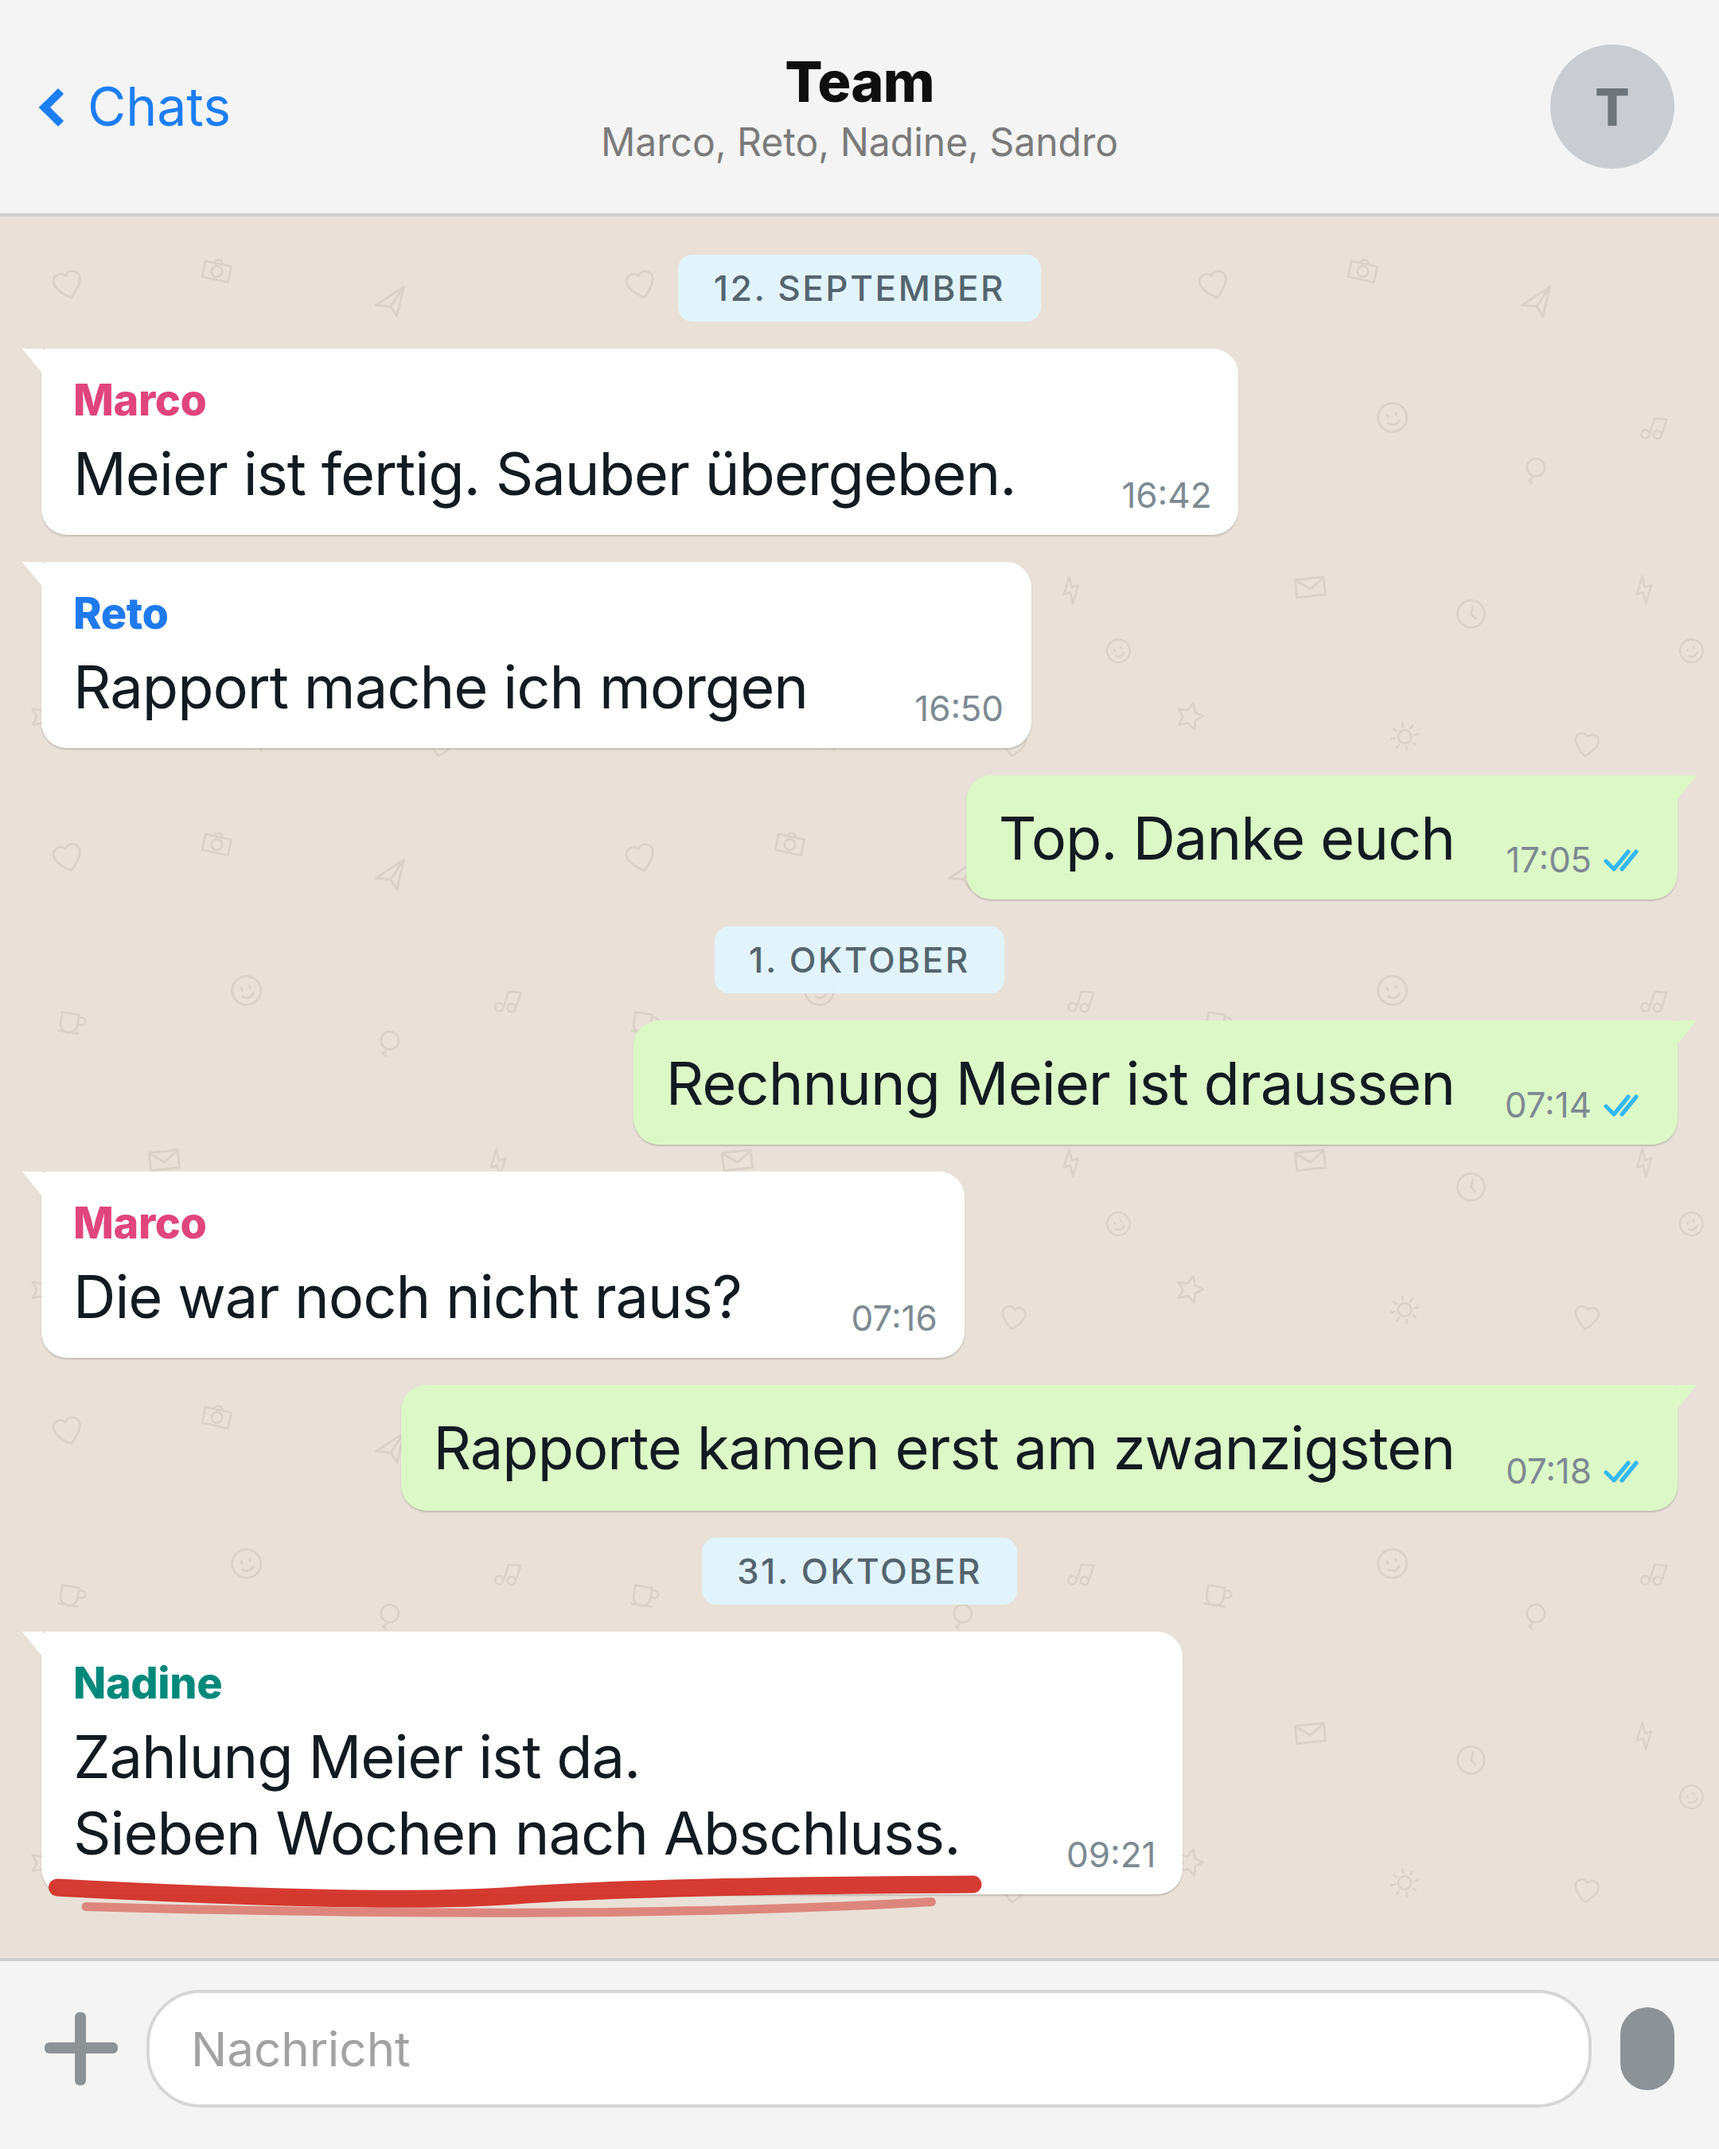
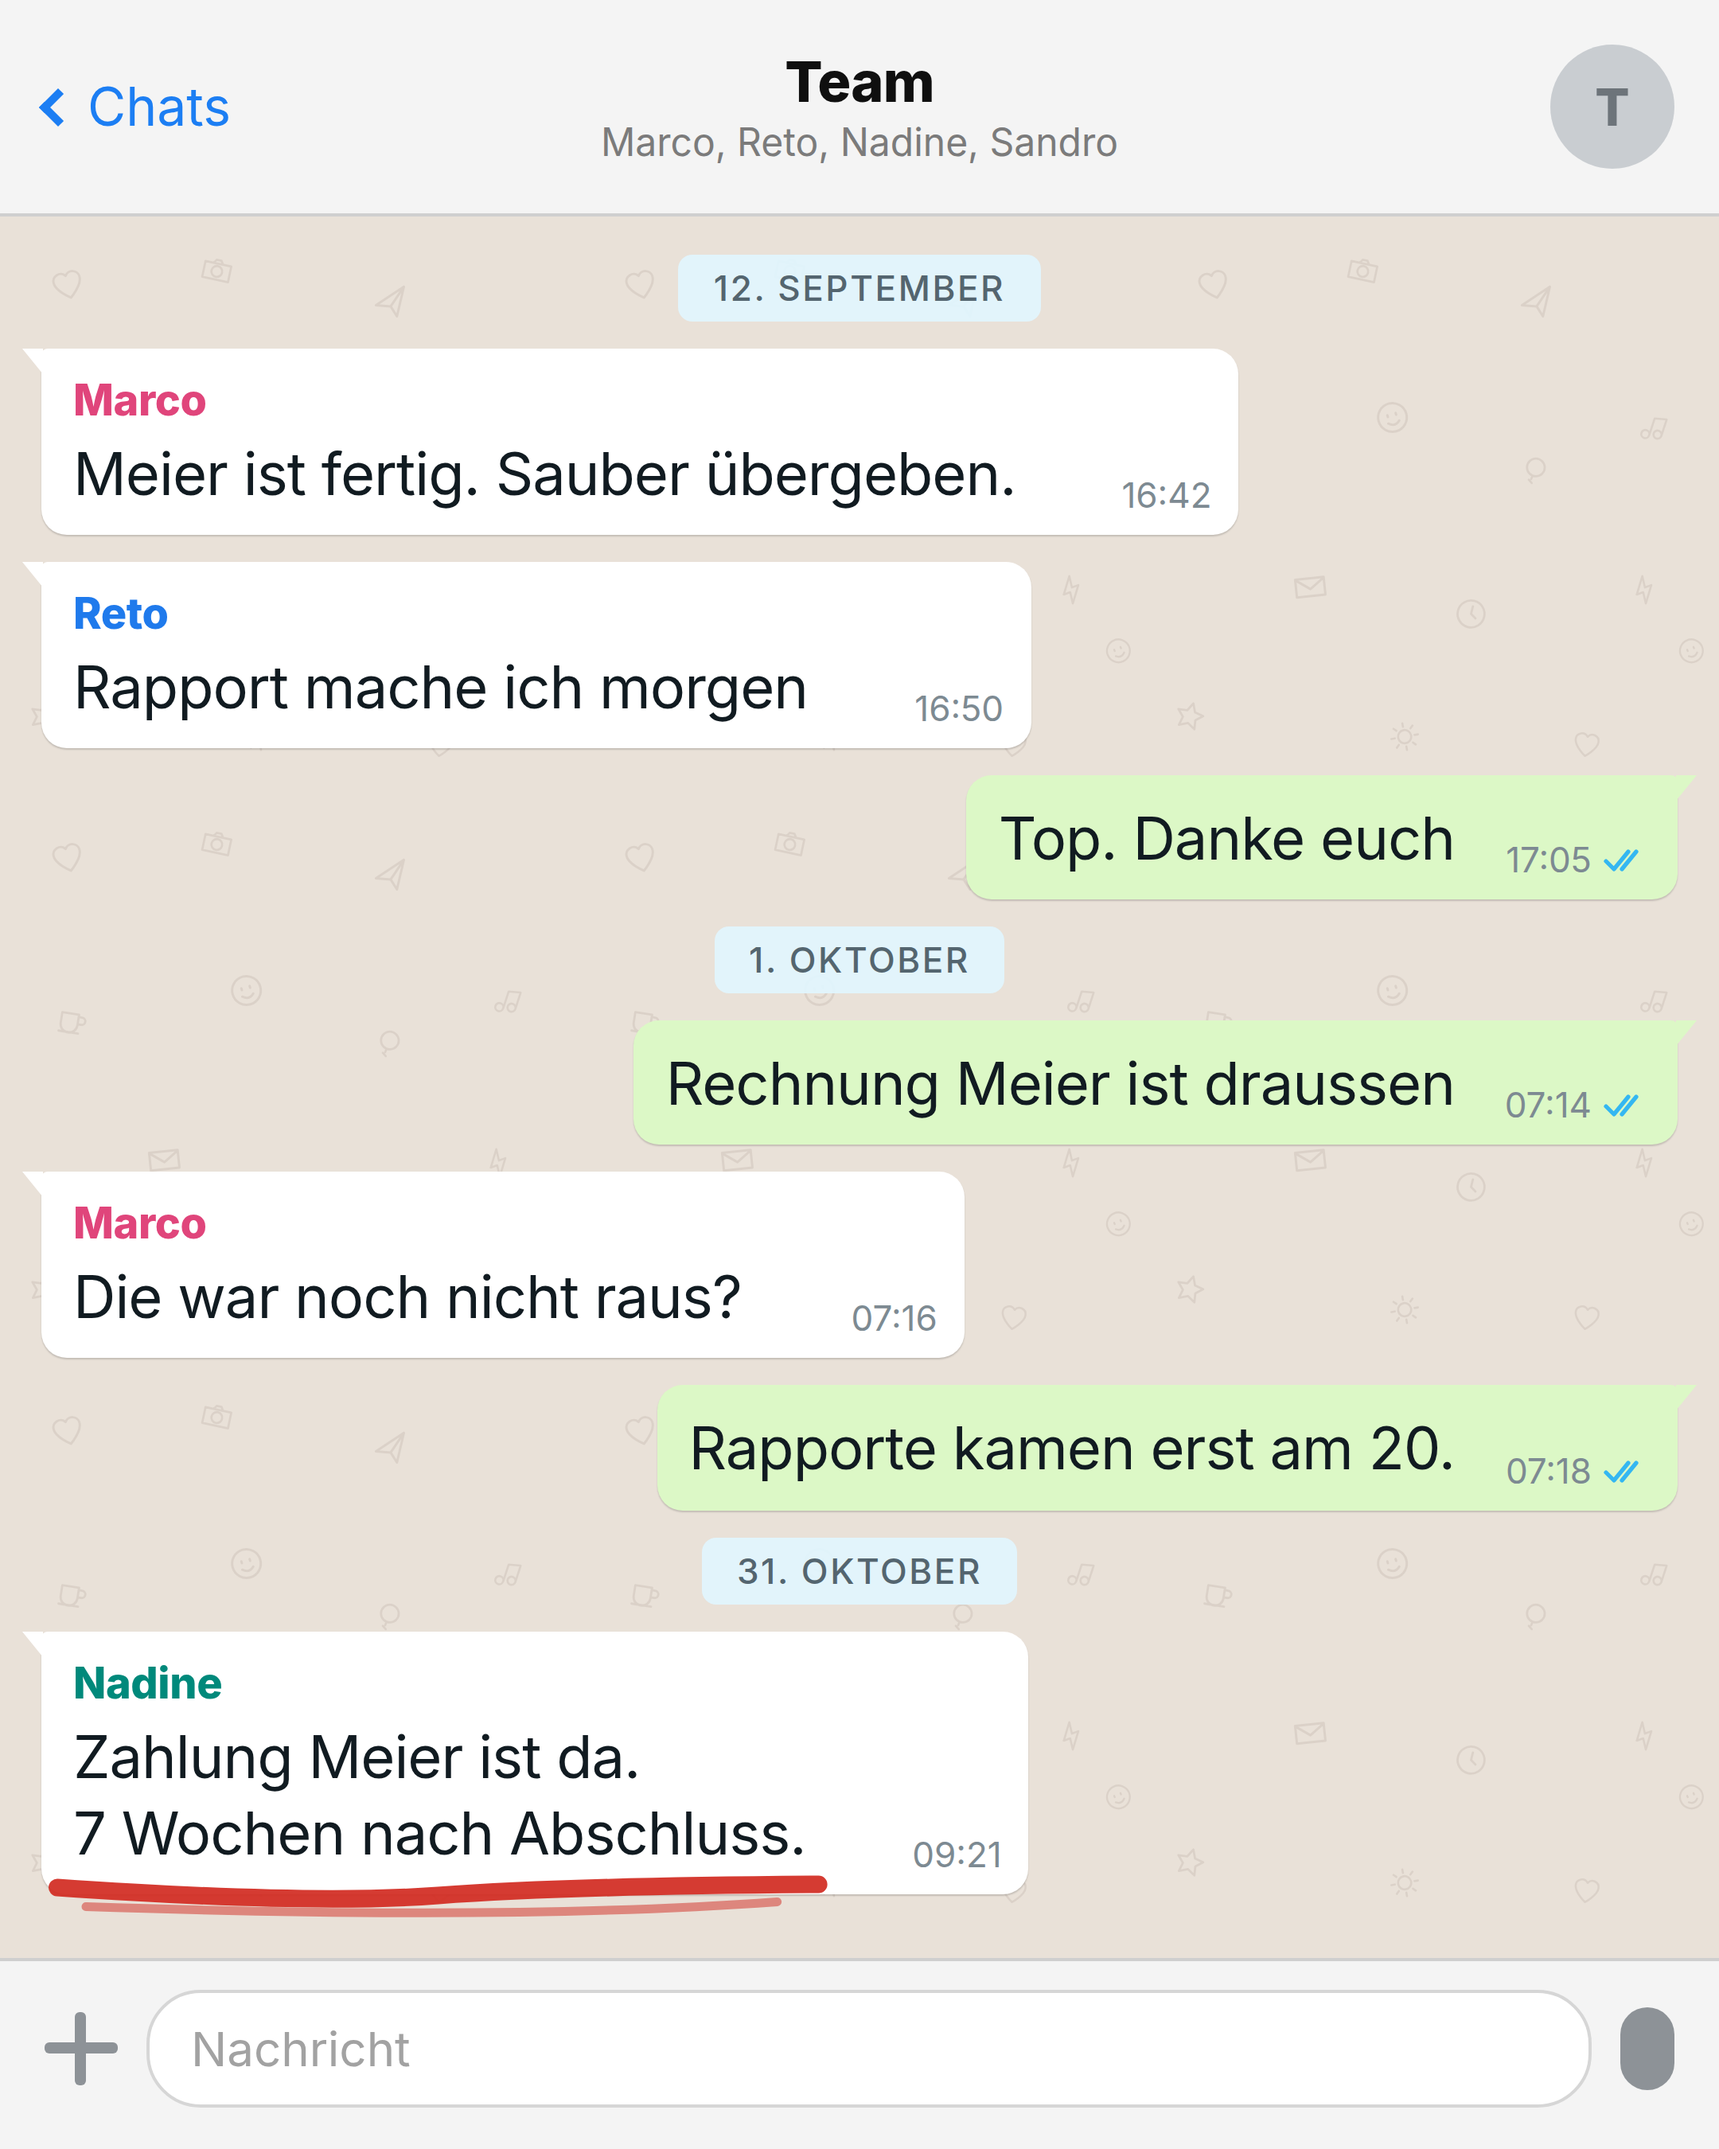
Zahlen als Ziffern, Mitarbeiter statt Leute
Florian am 24.09.: nicht Leute sondern Mitarbeiter, und Zahlen als
Zahlen schreiben.

Im Post und im Bild umgesetzt. Aus "am zwoelften" wird "am 12.", aus
"neunundvierzig Tage" wird "49 Tage", aus "dreissig" wird "30".
Ziffern springen beim Scrollen ins Auge, ausgeschriebene Zahlen
verschwinden im Fliesstext. Bei einem Post, der von einer Rechnung
lebt, ist das der Unterschied zwischen gesehen und ueberlesen.

Regel 24 im Lernprotokoll, gilt ab sofort fuer jeden Post und jedes
Bild. Ausnahme: woertliche Rede im Bild darf umgangssprachlich bleiben.

Claude-Session: https://claude.ai/code/session_011uqJThEvfyZaZ27wjBcmdt

Changed region(s): [[0.031, 0.7467, 0.7134, 0.9022], [0.2481, 0.6533, 0.8375, 0.6844]]

diff --git a/fotos/bild-rechnung.html b/fotos/bild-rechnung.html
@@ -78,12 +78,12 @@
     <div class="b in"><div class="who">Marco</div><div class="tx">Die war noch nicht raus?</div>
       <div class="meta"><span class="tm">07:16</span></div></div>
 
-    <div class="b out"><div class="tx">Rapporte kamen erst am zwanzigsten</div>
+    <div class="b out"><div class="tx">Rapporte kamen erst am 20.</div>
       <div class="meta"><span class="tm">07:18</span><svg class="ck" viewBox="0 0 30 16"><path d="M2 9l5 5 9-11M12 14l9-11" fill="none" stroke="#34B7F1" stroke-width="2.6" stroke-linecap="round" stroke-linejoin="round"/></svg></div></div>
 
     <div class="chip">31. Oktober</div>
 
-    <div class="b in" id="last"><div class="who c3">Nadine</div><div class="tx" id="punch">Zahlung Meier ist da.<br><span id="u">Sieben Wochen nach Abschluss.</span></div>
+    <div class="b in" id="last"><div class="who c3">Nadine</div><div class="tx" id="punch">Zahlung Meier ist da.<br><span id="u">7 Wochen nach Abschluss.</span></div>
       <div class="meta"><span class="tm">09:21</span></div></div>
   </div>
   <div class="inp"><div class="clip"></div><div class="field">Nachricht</div><div class="mic"></div></div>

diff --git a/posts/2026-09-24-neunzehn-tage.md b/posts/2026-09-24-neunzehn-tage.md
@@ -7,21 +7,21 @@ Content-Säule: Unbequeme Wahrheit, durchgehend Du
 
 ## Post
 
-Deine Leute waren am zwölften fertig. Dein Geld kam neunundvierzig Tage später.
+Deine Mitarbeiter waren am 12. fertig. Dein Geld kam 49 Tage später.
 
-Nicht weil der Kunde schlecht zahlt. Er hat seine dreissig Tage sogar eingehalten.
+Nicht weil der Kunde schlecht zahlt. Er hat seine 30 Tage sogar eingehalten.
 
-Die Rapporte lagen bis zum zwanzigsten bei dir. Die Rechnung hast du geschrieben, als du Zeit hattest. Das war am ersten.
+Die Rapporte lagen bis zum 20. bei dir. Die Rechnung hast du geschrieben, als du Zeit hattest. Das war am 1.
 
-Ab dem ersten laufen die dreissig Tage. Nicht ab dem zwölften.
+Ab dem 1. laufen die 30 Tage. Nicht ab dem 12.
 
-Neunzehn Tage hast du selber dazugelegt. Bei jeder Baustelle.
+19 Tage hast du selber dazugelegt. Bei jeder Baustelle.
 
 Du bist nicht schlecht organisiert. Die Rechnung ist einfach das Einzige, das keiner anmahnt, solange sie nicht draussen ist.
 
 Auf der Baustelle zählt jede Stunde. Im Büro zählt keiner die Tage.
 
-Die Offerte tippst du selber. Ans Nachfassen denkt keiner. Die Anfrage liegt drei Tage. Und die Rechnung wartet, bis du Zeit hast.
+Die Offerte tippst du selber. Ans Nachfassen denkt keiner. Die Anfrage liegt 3 Tage. Und die Rechnung wartet, bis du Zeit hast.
 
 Genau das automatisiere ich. Dann geht die Rechnung raus, sobald der Rapport drin ist.
 
@@ -29,8 +29,8 @@ Wie viele Tage liegen bei dir zwischen dem letzten Arbeitstag und der Rechnung?
 
 ## Alternative Hooks
 
-1. Am zwölften war die Baustelle fertig. Die Rechnung ging am ersten raus. Rate mal, wer die neunzehn Tage bezahlt hat.
-2. Dein Kunde zahlt nach dreissig Tagen. Gerechnet ab dem Tag, an dem du die Rechnung schreibst, nicht ab dem Tag, an dem die Arbeit fertig ist.
+1. Am 12. war die Baustelle fertig. Die Rechnung ging am 1. raus. Rate mal, wer die 19 Tage bezahlt hat.
+2. Dein Kunde zahlt nach 30 Tagen. Gerechnet ab dem Tag, an dem du die Rechnung schreibst, nicht ab dem Tag, an dem die Arbeit fertig ist.
 
 ## Warum diese Fassung nach dem 250er
 

diff --git a/wissen/lernprotokoll.md b/wissen/lernprotokoll.md
@@ -193,6 +193,10 @@ Zweiter Punkt: Der 200er hatte ein Foto, der 250er nicht. Schwacher Beleg, deckt
     Pruefsatz vor dem Schreiben: An welchem Tag passiert es, wer ist beteiligt, und was genau ist danach weg? Wenn eine der drei Antworten fehlt, ist es noch ein Argument.
     Gilt auch fuers Bild: ein Chat mit Verlauf und Pointe schlaegt eine Liste. Eine Liste zeigt einen Zustand, und ein Zustand erzeugt keine Verweildauer.
 
+24. ZAHLEN ALS ZAHLEN, MITARBEITER STATT LEUTE (Florian, 24.09.2026): Zwei Sprachregeln, die ab sofort fuer jeden Post und jedes Bild gelten.
+    Mengen und Daten werden als ZIFFERN geschrieben, nicht ausgeschrieben. Also "49 Tage" und nicht "neunundvierzig Tage", "am 12." und nicht "am zwoelften", "30 Tage" und nicht "dreissig Tage". Ziffern springen beim Scrollen ins Auge, ausgeschriebene Zahlen verschwinden im Fliesstext. Bei einem Post, der von einer Rechnung lebt, ist das der Unterschied zwischen gesehen und ueberlesen.
+    Fuer die Belegschaft heisst es MITARBEITER, nie "Leute". Gilt auch in Wendungen wie "deine Leute" und "vier Mann". Ausnahme: woertliche Rede im Bild darf umgangssprachlich bleiben.
+
 ## Offene Tests
 
 - Posting-Zeit 07:30 gegen 08:30, beide Dienstag oder Donnerstag.
